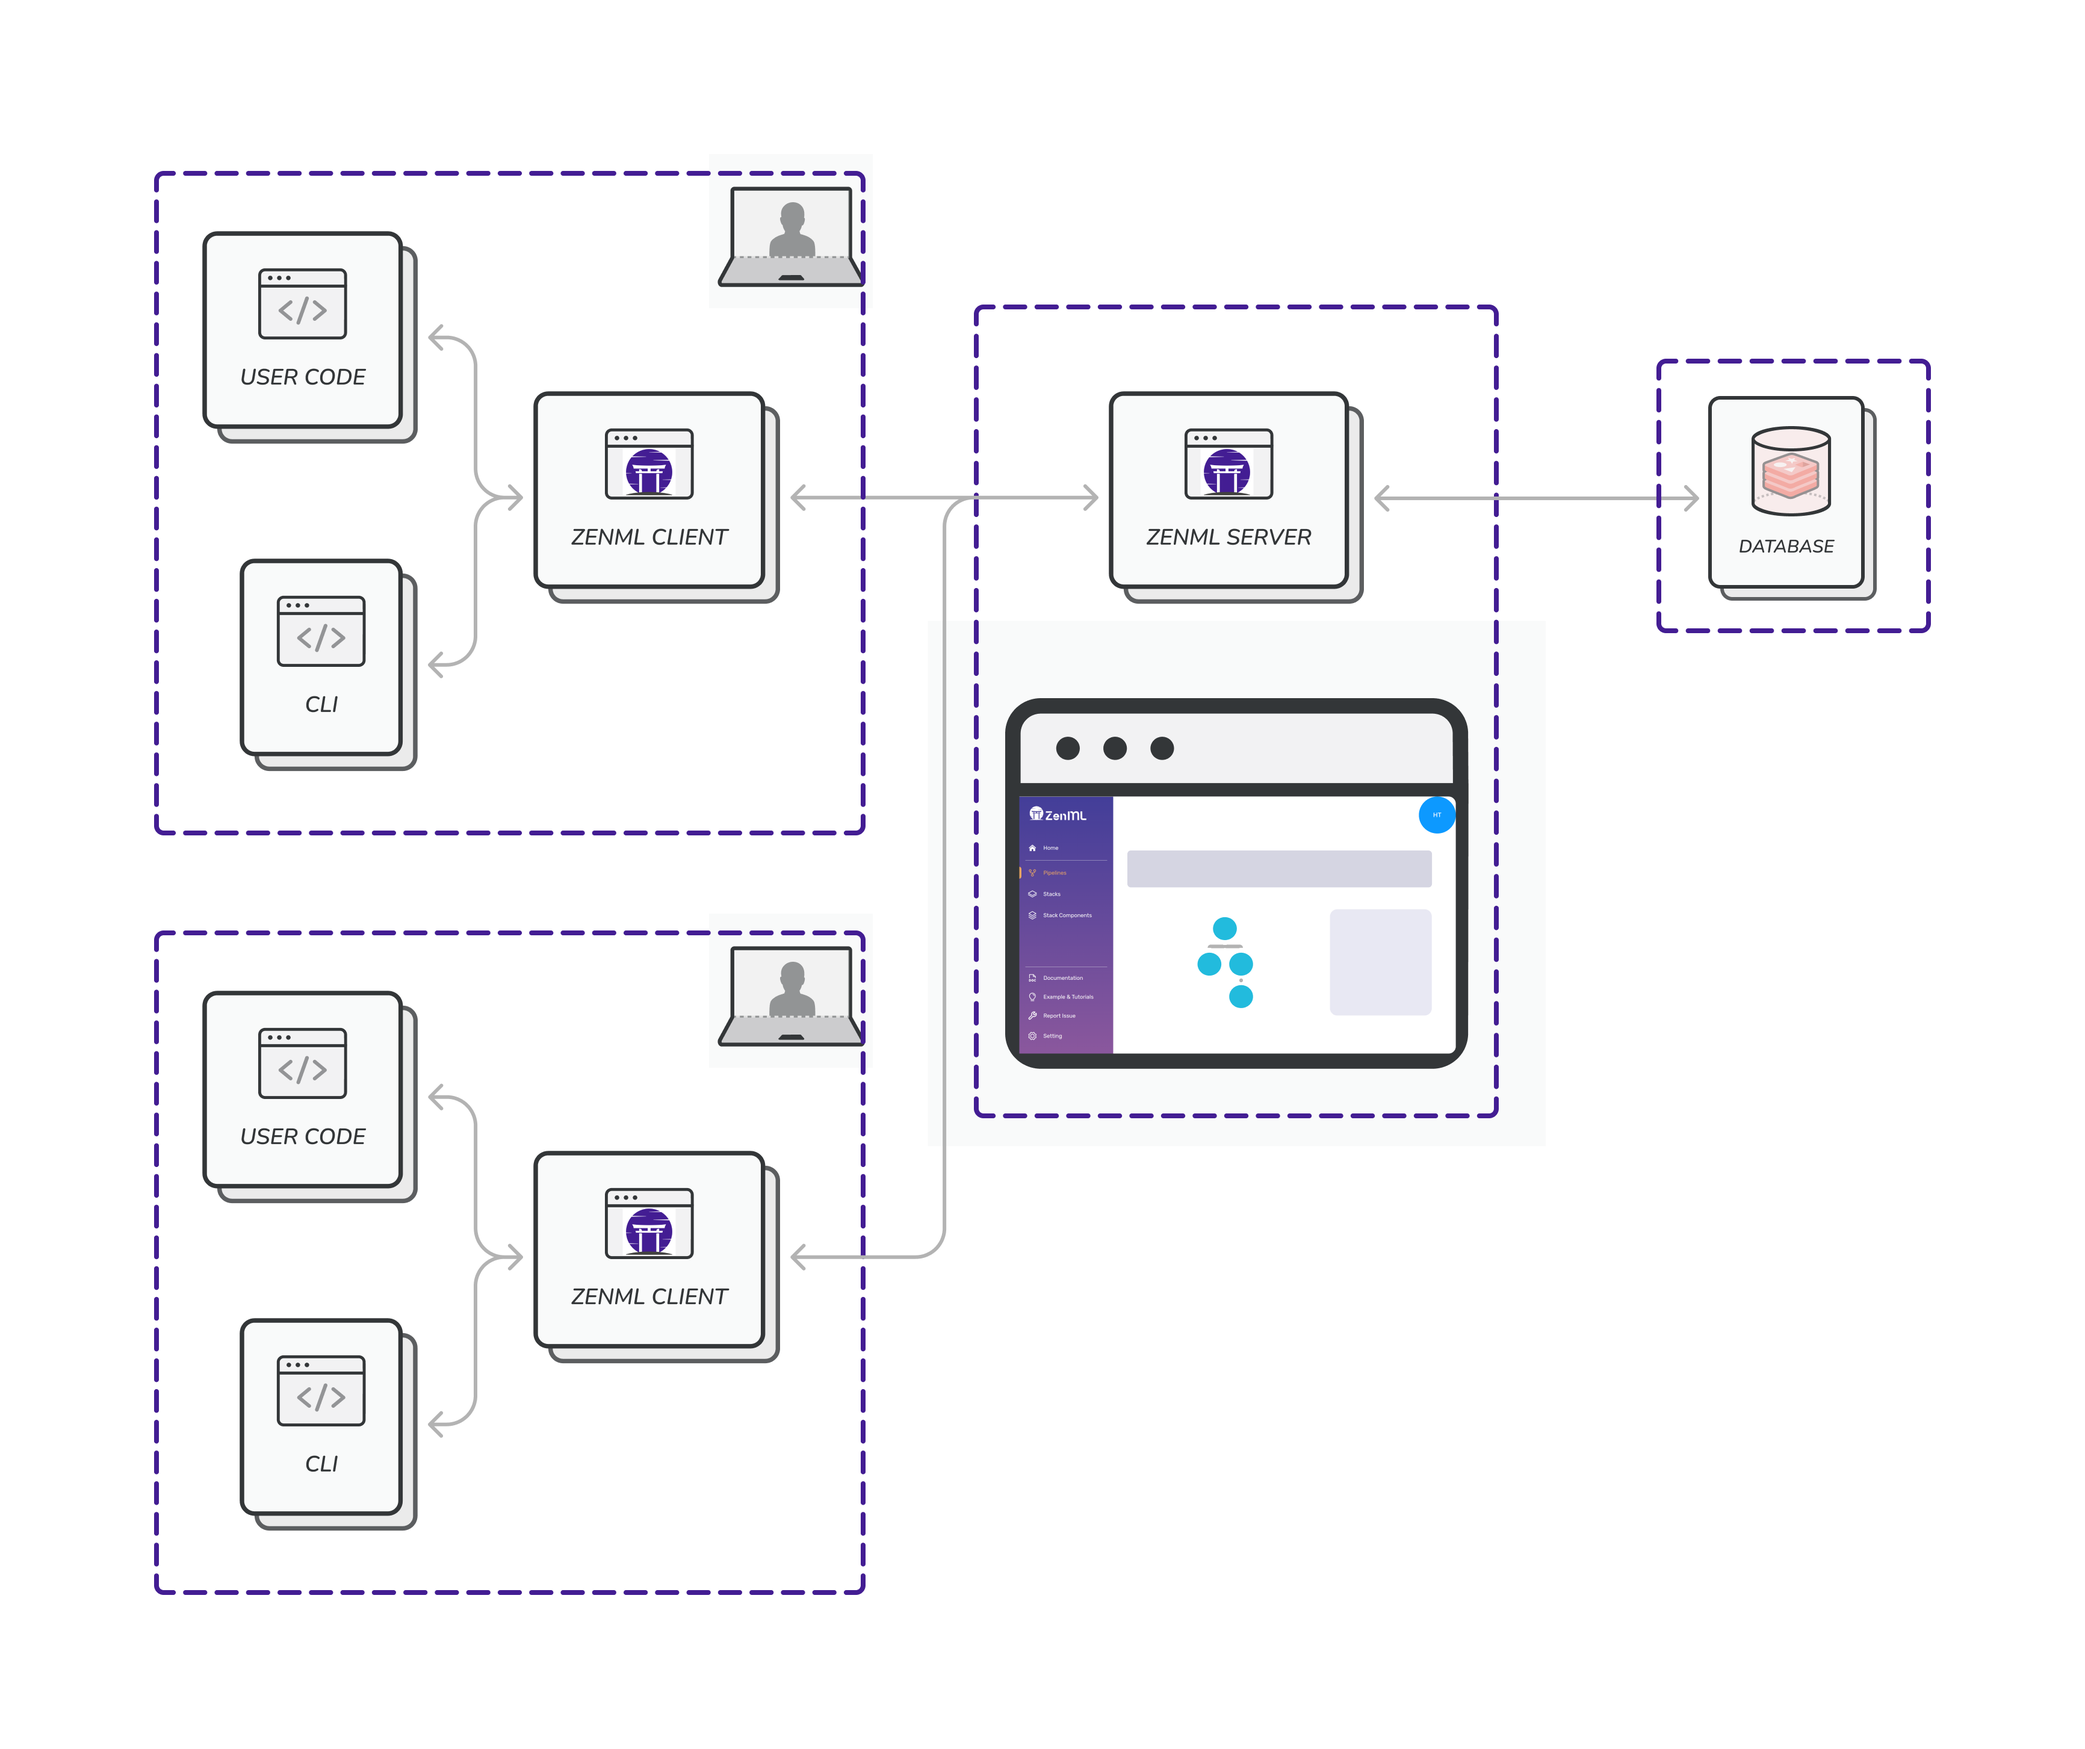
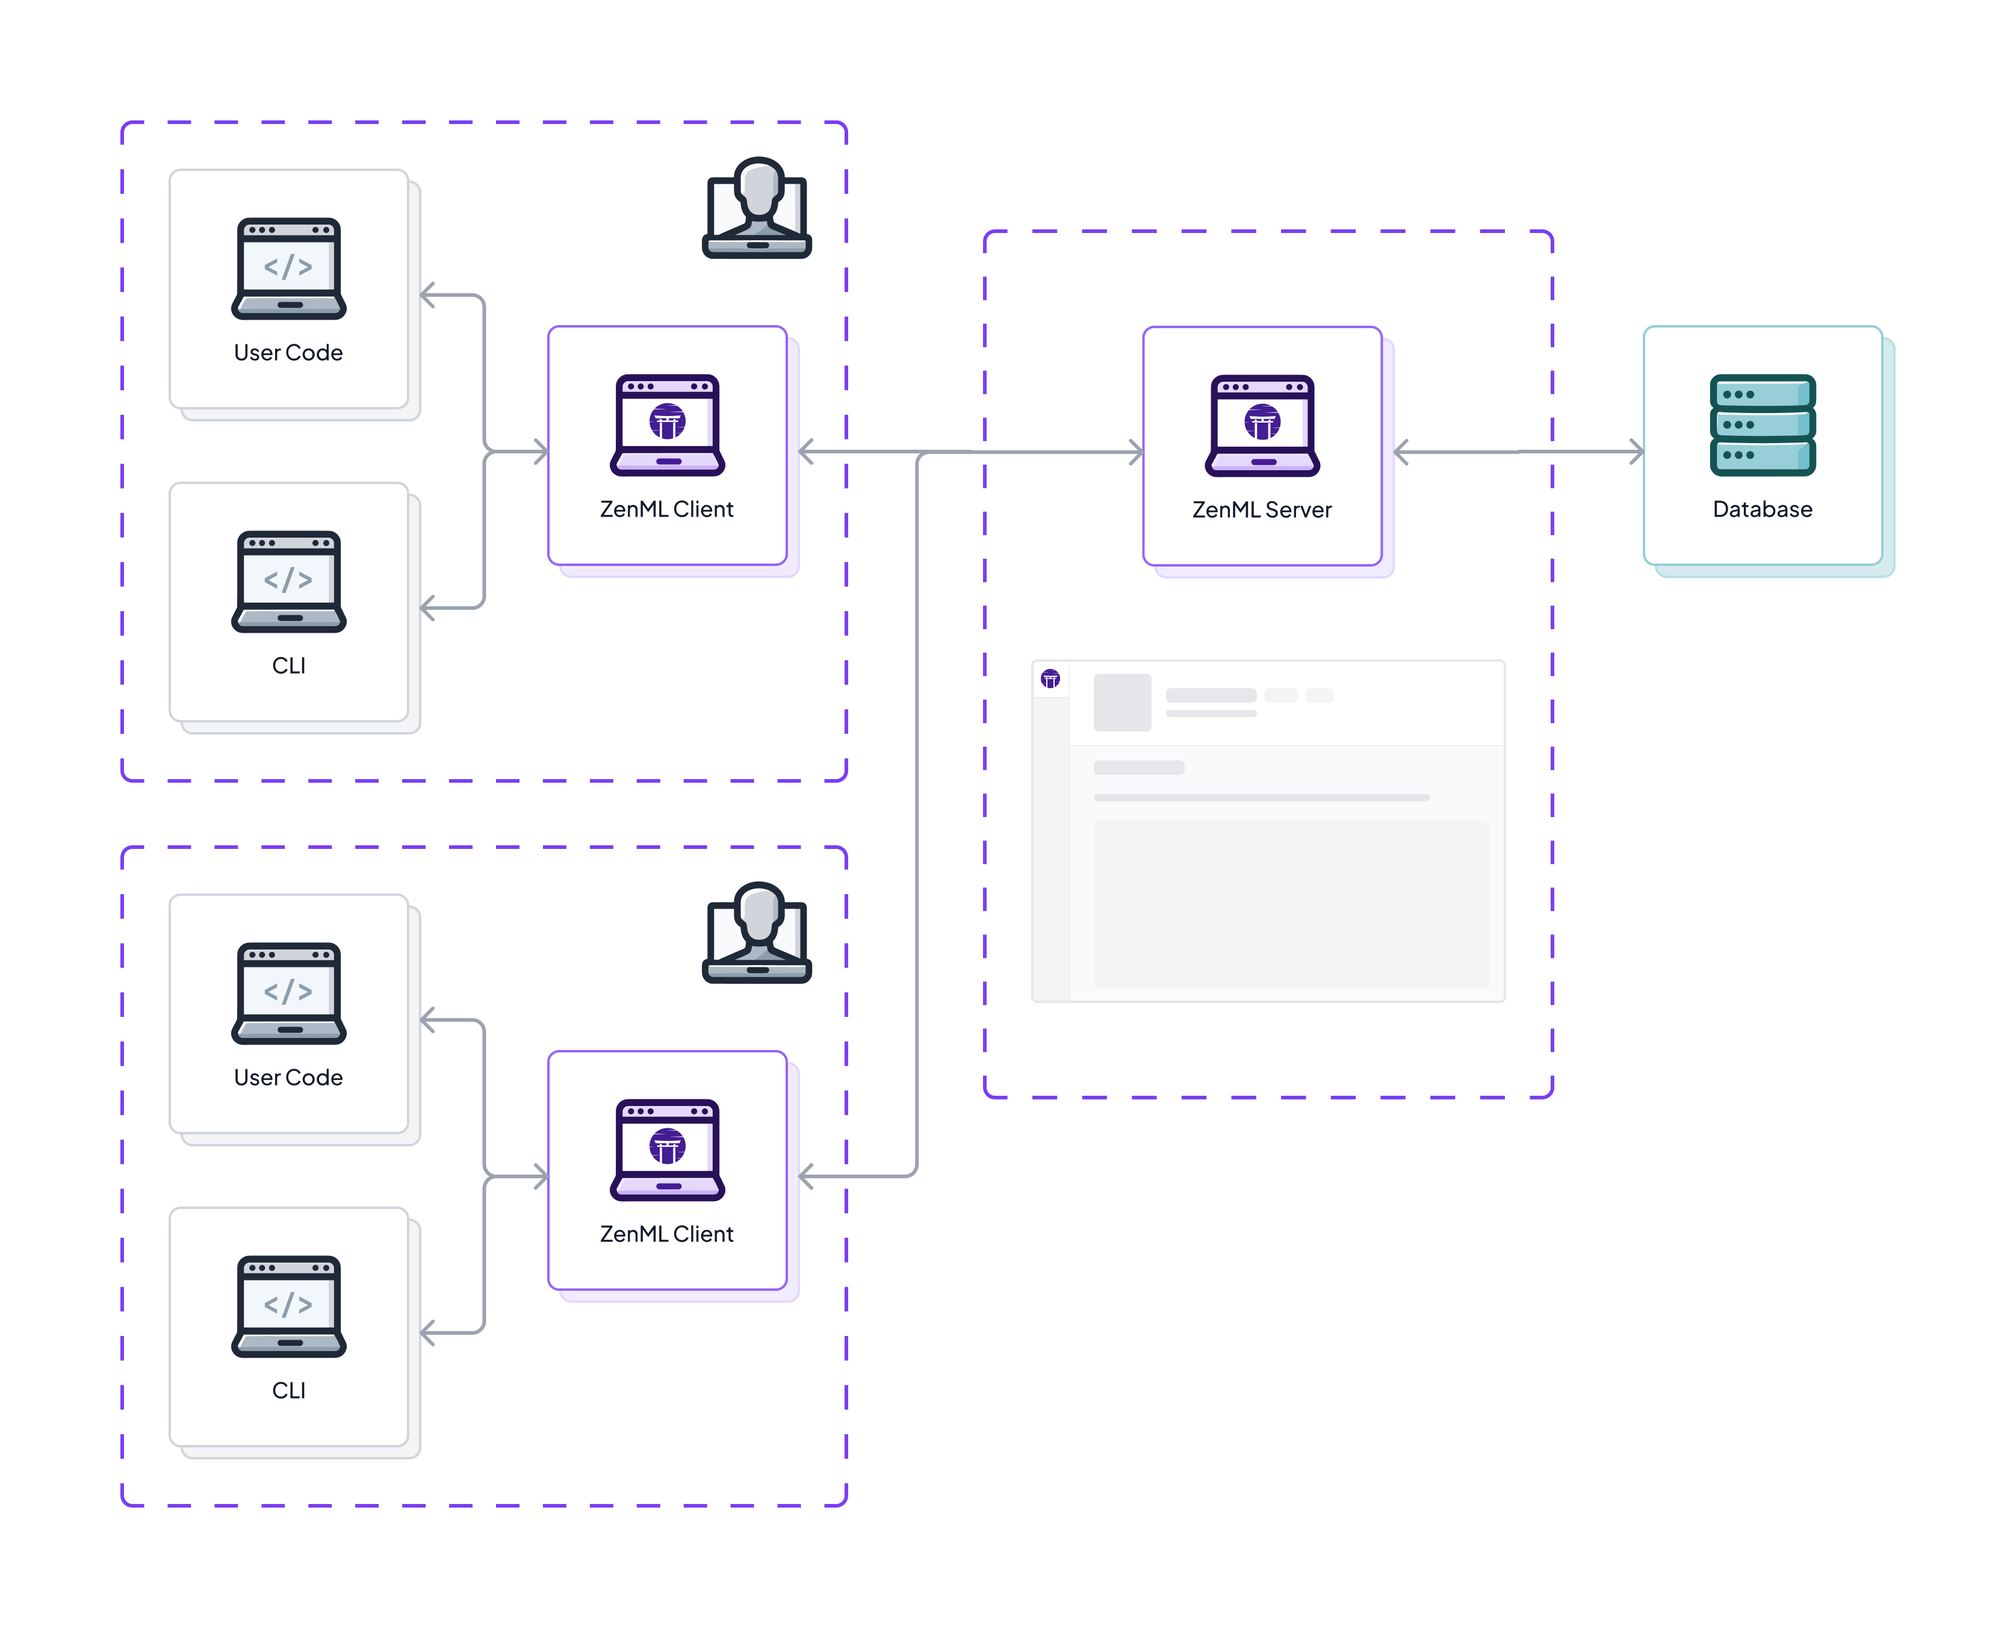
Updating README.md

diff --git a/README.md b/README.md
@@ -61,7 +61,7 @@
 <br />
 <div align="center">
   <a href="https://zenml.io">
-    <img alt="ZenML Logo" src="https://user-images.githubusercontent.com/3348134/223112746-345126ff-a0e8-479f-8ac0-670d78f71712.png" alt="Logo" width="400">
+    <img alt="ZenML Logo" src="docs/book/.gitbook/assets/header.png" alt="Logo" width="400">
   </a>
 
 <h3 align="center">Build portable, production-ready MLOps pipelines.</h3>
@@ -267,8 +267,6 @@ Open up the ZenML dashboard using this command.
 ```bash
 zenml show
 ```
-
-![ZenML Dashboard](docs/book/.gitbook/assets/landingpage.png)
 
 # 🗺 Roadmap
 
